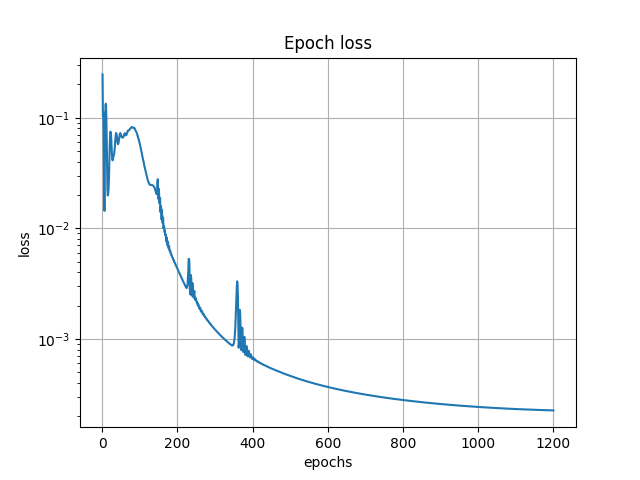
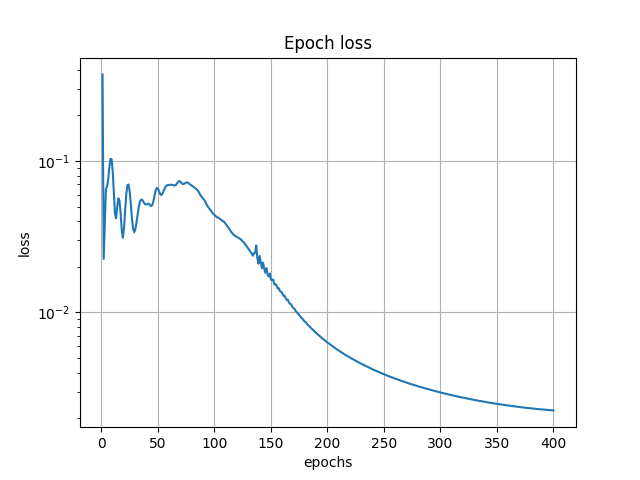
neumann

diff --git a/src/pinnde/training/pinnTrainSteps.py b/src/pinnde/training/pinnTrainSteps.py
@@ -2,7 +2,12 @@ import tensorflow as tf
 import numpy as np
 import ast
 
-def trainStep(eqns, clps, bcs, network, dim, bdry_type):
+def trainStep(eqns, clps, bcs, network, boundary):
+    dim = boundary.get_domain().get_dim()
+    bdry_type = boundary.get_bdry_type()
+    bdry_components = boundary.get_domain().get_bdry_components()
+    bdry_component_sizes = boundary.get_domain().get_bdry_component_size()
+
     clps_group = []
     for i in range(dim):
         globals()[f"x{i+1}_clp"] = clps[:,i:i+1]
@@ -42,14 +47,36 @@ def trainStep(eqns, clps, bcs, network, dim, bdry_type):
         if bdry_type == 1:
             BCloss = tf.cast(0, tf.float32)
            
-
+        # dirichlet
         elif bdry_type == 2:
             u_bc_pred = network(bcs_group)
             u_bcs = tf.cast(u_bcs, tf.float32)
             BCloss = tf.reduce_mean(tf.square(u_bcs-u_bc_pred))
 
+        # neumann
         elif bdry_type == 3:
-            pass
+            with tf.GradientTape(persistent=True) as tape3:
+                for col in bcs_group:
+                    tape3.watch(col)
+                u_bc_pred = network(bcs_group)
+
+                tosort = bcs[:, 0]
+                sorted = tf.argsort(tosort)
+                bcs = tf.gather(bcs, sorted)
+                for i in range(1, dim):
+                    upper = bcs[:(2*i-1)*bdry_component_sizes]
+                    lower = bcs[(np.shape(bcs)[0]-bdry_component_sizes):]
+                    a = bcs[(2*i-1)*bdry_component_sizes:(np.shape(bcs)[0]-bdry_component_sizes)]
+                    tosort = a[:, i]
+                    sorted = tf.argsort(tosort)
+                    a = tf.gather(a, sorted)
+                    bcs = tf.concat([upper, lower, a], axis=0)
+                u_bcs = bcs[:, -1:]
+
+                for i in range(dim):
+                    du_bc_pred = tf.cast(tape3.gradient(u_bc_pred, bcs_group[i]), tf.float32)
+                    BCloss += tf.reduce_mean(tf.square(du_bc_pred[i*2*bdry_component_sizes:(i+1)*2*bdry_component_sizes] - 
+                                                       tf.cast(u_bcs[i*2*bdry_component_sizes:(i+1)*2*bdry_component_sizes], tf.float32)))
         
         loss = CLPloss + BCloss
     
@@ -57,7 +84,11 @@ def trainStep(eqns, clps, bcs, network, dim, bdry_type):
     return CLPloss, BCloss, grads
 
 
-def trainStepTime(eqns, clps, bcs, ics, network, dim, bdry_type, t_orders):
+def trainStepTime(eqns, clps, bcs, ics, network, boundary, t_orders):
+    dim = boundary.get_domain().get_dim()
+    bdry_type = boundary.get_bdry_type()
+    bdry_components = boundary.get_domain().get_bdry_components()
+    bdry_component_sizes = boundary.get_domain().get_bdry_component_size()
 
     t_clp = clps[:,0:1]
     clps_group = [t_clp]
@@ -113,23 +144,45 @@ def trainStepTime(eqns, clps, bcs, ics, network, dim, bdry_type, t_orders):
         eqnparse = eval(compile(parse_tree, "<string>", "eval"))
         CLPloss += tf.reduce_mean(tf.square(eqnparse))
         CLPloss = tf.cast(CLPloss, tf.float32)
-
+        
         BCloss = 0
+
         # periodic
         if bdry_type == 1:
             BCloss = tf.cast(0, tf.float32)
             
-
+        # dirichlet
         elif bdry_type == 2:
-            # print(bcs)
-            # print("break")
-            # print(bcs_group)
             u_bc_pred = network(bcs_group)
             u_bcs = tf.cast(u_bcs, tf.float32)
             BCloss = tf.reduce_mean(tf.square(u_bcs-u_bc_pred))
 
+        # neumann
         elif bdry_type == 3:
-            pass
+            with tf.GradientTape(persistent=True) as tape3:
+                for col in bcs_group:
+                    tape3.watch(col)
+                u_bc_pred = network(bcs_group)
+
+                tosort = bcs[:, 1]
+                sorted = tf.argsort(tosort)
+                bcs = tf.gather(bcs, sorted)
+                for i in range(1, dim):
+                    upper = bcs[:(2*i-1)*bdry_component_sizes]
+                    lower = bcs[(np.shape(bcs)[0]-bdry_component_sizes):]
+                    a = bcs[(2*i-1)*bdry_component_sizes:(np.shape(bcs)[0]-bdry_component_sizes)]
+                    tosort = a[:, i+1]
+                    sorted = tf.argsort(tosort)
+                    a = tf.gather(a, sorted)
+                    bcs = tf.concat([upper, lower, a], axis=0)
+                u_bcs = bcs[:, -1:]
+                print(bcs)
+
+                for i in range(dim):
+                    du_bc_pred = tf.cast(tape3.gradient(u_bc_pred, bcs_group[i+1]), tf.float32)
+                    BCloss += tf.reduce_mean(tf.square(du_bc_pred[i*2*bdry_component_sizes:(i+1)*2*bdry_component_sizes] - 
+                                                       tf.cast(u_bcs[i*2*bdry_component_sizes:(i+1)*2*bdry_component_sizes], tf.float32)))
+    
 
         ICloss = 0
         with tf.GradientTape(persistent=True) as tape2:

diff --git a/test.py b/test.py
@@ -32,7 +32,7 @@ bound = p.boundaries.periodic(tre)
 inits = p.initials.initials(tre, [lambda x: tf.cos(np.pi*x)])
 dat = p.data.timededata(tre, bound, inits, 10000, 100, 400)
 mymodel = p.models.pinn(dat, ["ut+ux1"])
-mymodel.train(1200)
+mymodel.train(400)
 p.plotters.plot_solution_prediction_time1D(mymodel)
 p.plotters.plot_epoch_loss(mymodel)
 
@@ -40,10 +40,9 @@ p.plotters.plot_epoch_loss(mymodel)
 # tre = p.domain.Time_NRect(1, [0], [1], [0,1])
 # bound = p.boundaries.dirichlet(tre, [lambda t, x1: 0+t*0 ])
 # inits = p.initials.initials(tre, [lambda x1: tf.sin(np.pi*x1)])
-# dat = p.data.timededata(tre, bound, inits, 10000, 600, 400)
+# dat = p.data.timededata(tre, bound, inits, 10000, 10, 10)
 # mymodel = p.models.pinn(dat, ["0.08*ux1x1 - ut"])
-# epochs = 300
-# mymodel.train(epochs)
+# mymodel.train(1)
 # p.plotters.plot_solution_prediction_time1D(mymodel)
 # p.plotters.plot_epoch_loss(mymodel)
 
@@ -67,11 +66,21 @@ p.plotters.plot_epoch_loss(mymodel)
 # tre = p.domain.Time_NRect(2, [0, 0], [1, 1], [0,1])
 # bound = p.boundaries.dirichlet(tre, [lambda t, x1, x2: 0+t*0 ])
 # inits = p.initials.initials(tre, [lambda x1, x2: tf.sin(np.pi*x1)*tf.sin(np.pi*x2)])
-# dat = p.data.timededata(tre, bound, inits, 12000, 1000, 1000)
+# dat = p.data.timededata(tre, bound, inits, 12000, 10, 10)
 # mymodel = p.models.pinn(dat, ["0.08*ux1x1 + 0.08*ux2x2 - ut"])
-# mymodel.train(2000)
+# mymodel.train(1)
 
 # p.plotters.plot_solution_prediction_time2D(mymodel)
 # p.plotters.plot_epoch_loss(mymodel)
+
+
+# test
+# tre = p.domain.NRect(4, [-1, -3, -2, -4], [1, 3, 2, 4])
+# bound = p.boundaries.neumann(tre, [lambda t, x1, x2, x3: 4+t*0, lambda t, x1, x2, x3: 5+t*0, lambda t, x1, x2, x3: 6+t*0, lambda t, x1, x2, x3: 7+t*0, lambda t, x1, x2, x3: 8+t*0, 
+#                                      lambda t, x1, x2, x3: 9+t*0, lambda t, x1, x2, x3: 10+t*0, lambda t, x1, x2, x3: 11+t*0])
+# # inits = p.initials.initials(tre, [lambda x1, x2, x3, x4: tf.sin(np.pi*x1)*tf.sin(np.pi*x2)])
+# dat = p.data.dedata(tre, bound, 12000, 16)
+# mymodel = p.models.pinn(dat, ["0.08*ux1x1 + 0.08*ux2x2"])
+# mymodel.train(1)
 
 # -------------

diff --git a/src/pinnde/boundaries/neumann.py b/src/pinnde/boundaries/neumann.py
@@ -1,6 +1,53 @@
 from .boundaries import boundaries
+import numpy as np
+import tensorflow as tf
+import inspect
 
 class neumann(boundaries):
 
-    def __init__(self, domain, lambdas, n_bc):
-        return
+    #lambdas len = 1, all boundary, if not, have to have every boundary coverd
+    def __init__(self, domain, lambdas):
+      super().__init__(domain, 3)
+      self._lambdas = lambdas
+
+      for func in lambdas:
+        args = (inspect.getfullargspec(func))[0]
+        if (len(args) != domain.get_dim()) and (len(args) != domain.get_dim()+1):
+            raise ValueError("Lambda functions for boundaries must be functions of time+spatial dimensions, even if variables not used. \
+                            Examples; lambda t, x1: 0+0*x1+0*t, or lambda x1, x2, x3: 2*x2")
+
+      if (len(lambdas) == 1):
+        new_lambdas = []
+        for i in range(domain.get_bdry_components()):
+          new_lambdas.append(lambdas[0])
+        self._lambdas = new_lambdas
+
+    def get_lambdas(self):
+      return self._lambdas
+
+    def boundaryPoints(self, n_bc):
+      sampled_boundary = self._domain.sampleBoundary(n_bc)
+
+      # if isinstance(self._domain, timedomain):
+      #   time_points = sampled_boundary[:,0]
+      #   pure_boundary = sampled_boundary[:,1:,]
+      # else:
+      #   pure_boundary = sampled_boundary
+
+      pure_boundary = sampled_boundary
+
+      func_inputs = []
+      comp_boundary = pure_boundary.reshape(-1, self._domain.get_bdry_component_size(), pure_boundary.shape[1])
+      for comp in comp_boundary:
+        components = []
+        for dim in range(np.shape(comp)[1]):
+          components.append(comp[:, dim])
+        func_inputs.append(components)
+      out = []
+
+      for i in range(self._domain.get_bdry_components()):
+        out.append(self._lambdas[i](*func_inputs[i]))
+
+      boundary_points = np.column_stack([pure_boundary, np.array(out).flatten()])
+
+      return boundary_points  

diff --git a/src/pinnde/models/pinn.py b/src/pinnde/models/pinn.py
@@ -131,7 +131,7 @@ class pinn(model):
 
         for (clps, bcs) in ds:
 
-          CLPloss, BCloss, grads = pinnTrainSteps.trainStep(eqns, clps, bcs, self._network, self._dim, self._bdry_type)
+          CLPloss, BCloss, grads = pinnTrainSteps.trainStep(eqns, clps, bcs, self._network, self._boundaries)
           opt.apply_gradients(zip(grads, self._network.trainable_variables))
           n_batches += 1
           epoch_loss[i] += CLPloss + BCloss
@@ -178,7 +178,7 @@ class pinn(model):
         for (clps, bcs, ics) in ds:
           
           CLPloss, BCloss, ICloss, grads = pinnTrainSteps.trainStepTime(eqns, clps, bcs, ics, self._network, 
-                                                                      self._dim, self._bdry_type, self._t_orders)
+                                                                      self._boundaries, self._t_orders)
           opt.apply_gradients(zip(grads, self._network.trainable_variables))
           n_batches += 1
           epoch_loss[i] += CLPloss + BCloss
